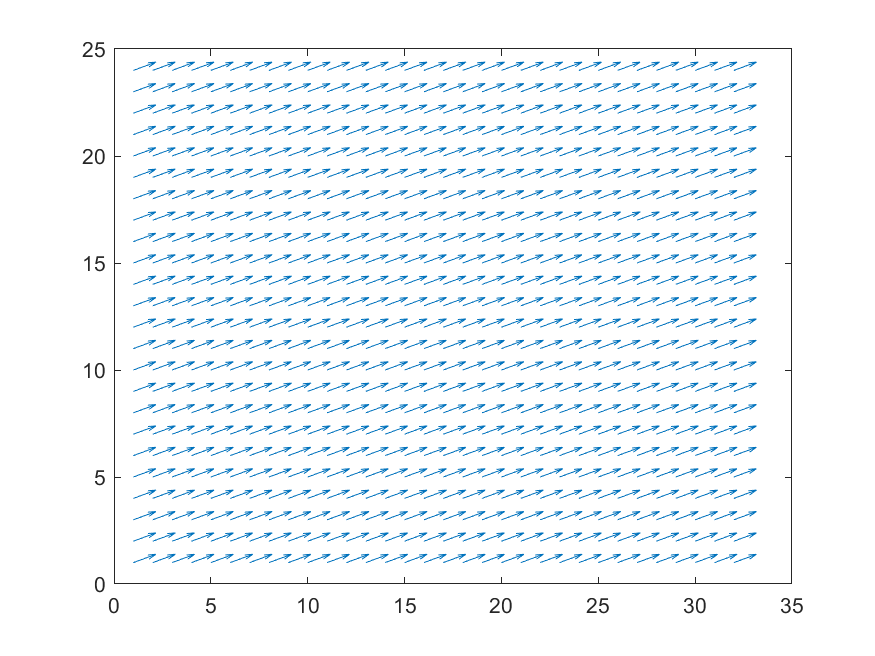
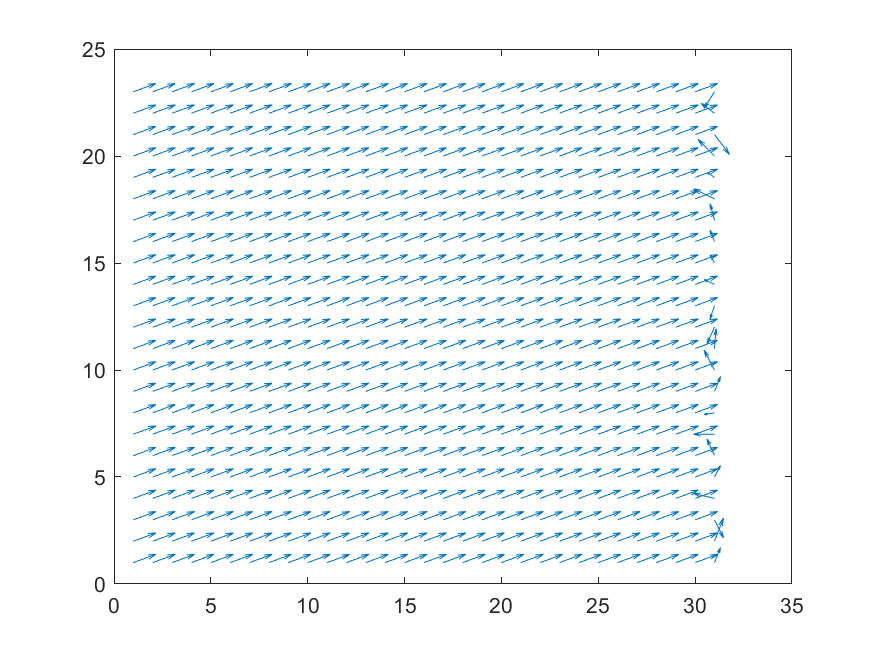
Implemented uniform sampling of grid for computing optical flow. Also tested on flow*.png images

Changed region(s): [[0.1543, 0.0915, 0.864, 0.8537]]

diff --git a/Assignments/HW7/src/computeFlow.m b/Assignments/HW7/src/computeFlow.m
@@ -2,8 +2,10 @@ function result = computeFlow(img1, img2, win_radius, template_radius, grid_MN)
     [ht, wid] = size(img1);
     result = zeros(grid_MN(1), grid_MN(2), 2);
     
-    for x = 151 : 150 + grid_MN(2)
-        for y = 111 : 110 + grid_MN(1)
+    c = 1;
+    for x = round(wid / (grid_MN(2) + 1)) + 1 : round(wid / (grid_MN(2) + 1)) : wid
+        r = 1;
+        for y = round(ht / (grid_MN(1) + 1)) + 1 : round(ht / (grid_MN(1) + 1)) : ht
             if x - win_radius > 0
                 src_x_strt = x - win_radius;
             else
@@ -53,9 +55,11 @@ function result = computeFlow(img1, img2, win_radius, template_radius, grid_MN)
             [y_match, x_match] = find(cross_corr == max(cross_corr(:)));
             
             % Transform the coordinates to original frame of reference
-            x_match = x_match + dest_x_strt;
-            y_match = y_match + dest_y_strt;
-            result(y - 110, x - 150, :) = [x_match - x, y_match - y];
+            x_match = x_match(1) + dest_x_strt;
+            y_match = y_match(1) + dest_y_strt;
+            result(r, c, :) = [x_match - x, y_match - y];
+            r = r + 1;
         end
+        c = c + 1;
     end
 end

diff --git a/Assignments/HW7/src/runHw7.m b/Assignments/HW7/src/runHw7.m
@@ -57,19 +57,22 @@ saveas(fig, 'simpleresult.png');
 
 %%
 function challenge1a()
-img_list = {'flow1.png', 'flow2.png', 'flow3.png', 'flow4.png', 'flow5.png'};
+img_list = {'flow1.png', 'flow2.png', 'flow3.png', 'flow4.png', 'flow5.png', 'flow6.png'};
 for i = 1:length(img_list)
     img_stack{i} = imread(img_list{i});
 end
 
-search_half_window_size = 4;   % Half size of the search window
-template_half_window_size = 4; % Half size of the template window 
+search_half_window_size = 7;   % Half size of the search window
+template_half_window_size = 24; % Half size of the template window 
 grid_MN = [24, 32];              % Number of rows and cols in the grid
 
 for i = 2:length(img_stack)
     result = computeFlow(img_stack{i-1}, img_stack{i},...
         search_half_window_size, template_half_window_size, grid_MN);
-    imwrite(result, ['result' num2str(i-1) '_' num2str(i) '.png']);
+    fig = figure;
+    quiver(result(:, :, 1), result(:, :, 2));
+    %imwrite(result, ['result' num2str(i-1) '_' num2str(i) '.png']);
+    saveas(fig, ['result' num2str(i-1) '_' num2str(i) '.png']);
 end
 
 %--------------------------------------------------------------------------
